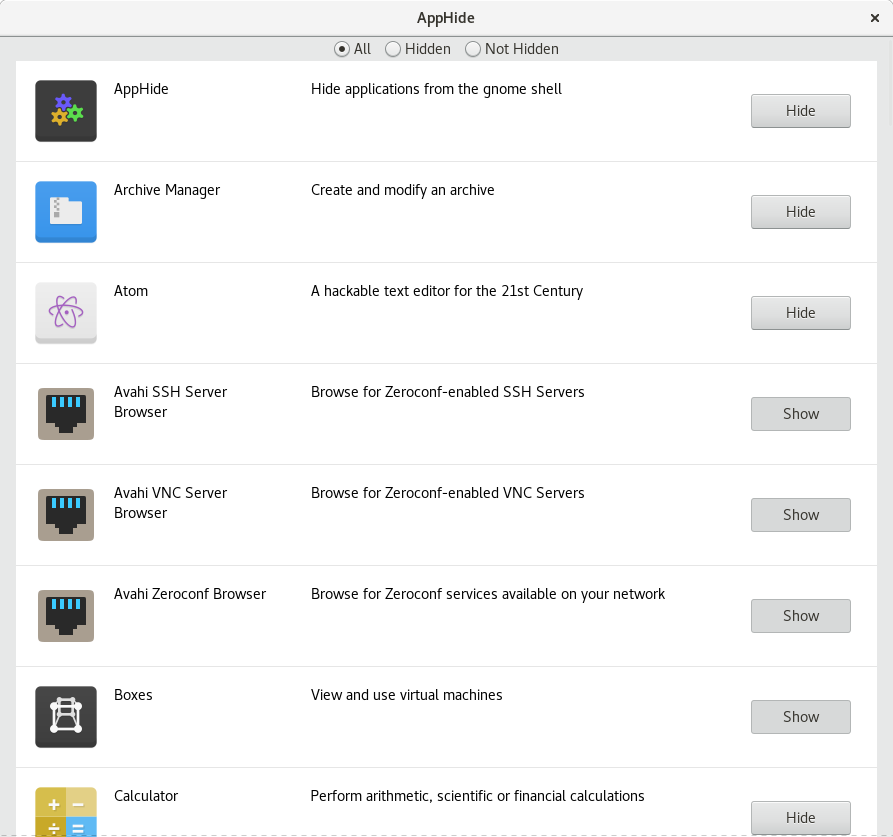
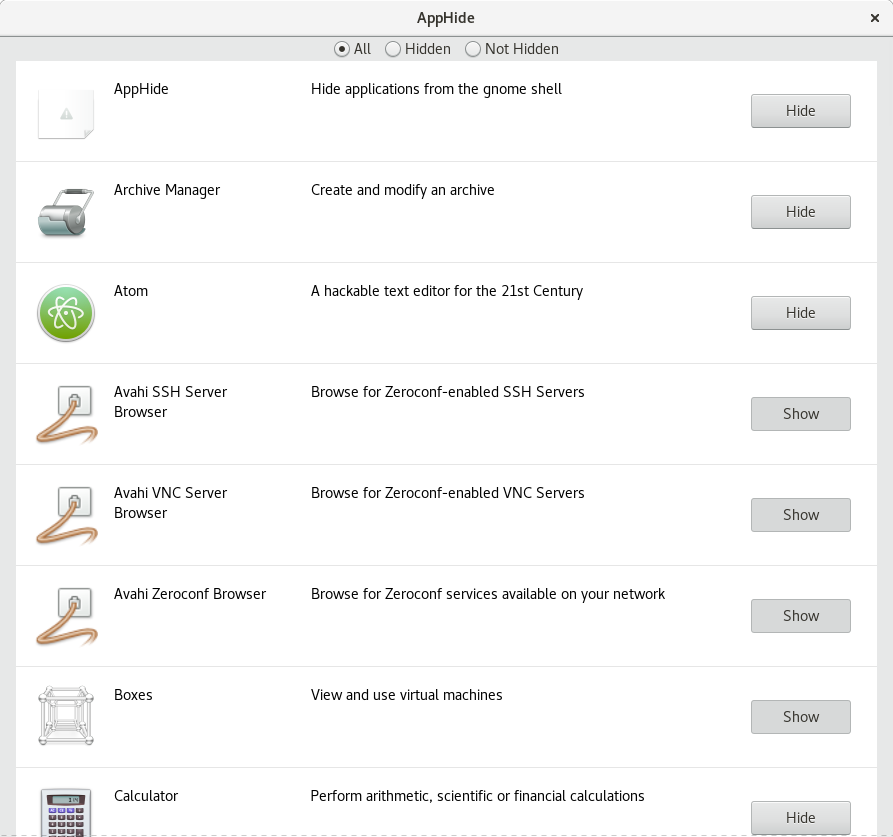
update screenshot

diff --git a/README.md b/README.md
@@ -6,7 +6,7 @@ Hide applications from the "Gnome Shell" Overview. This works by changing the
 state of the **NoDisplay** option within the applications "*.desktop*" file,
 which will tell "Gnome Shell" not to show that application.
 
-![Alt text](https://raw.githubusercontent.com/willforde/AppHide/master/screenshot.png "Screenshot")
+![Screenshot of Gui](/screenshot.png "Screenshot")
 
 -------------
 
